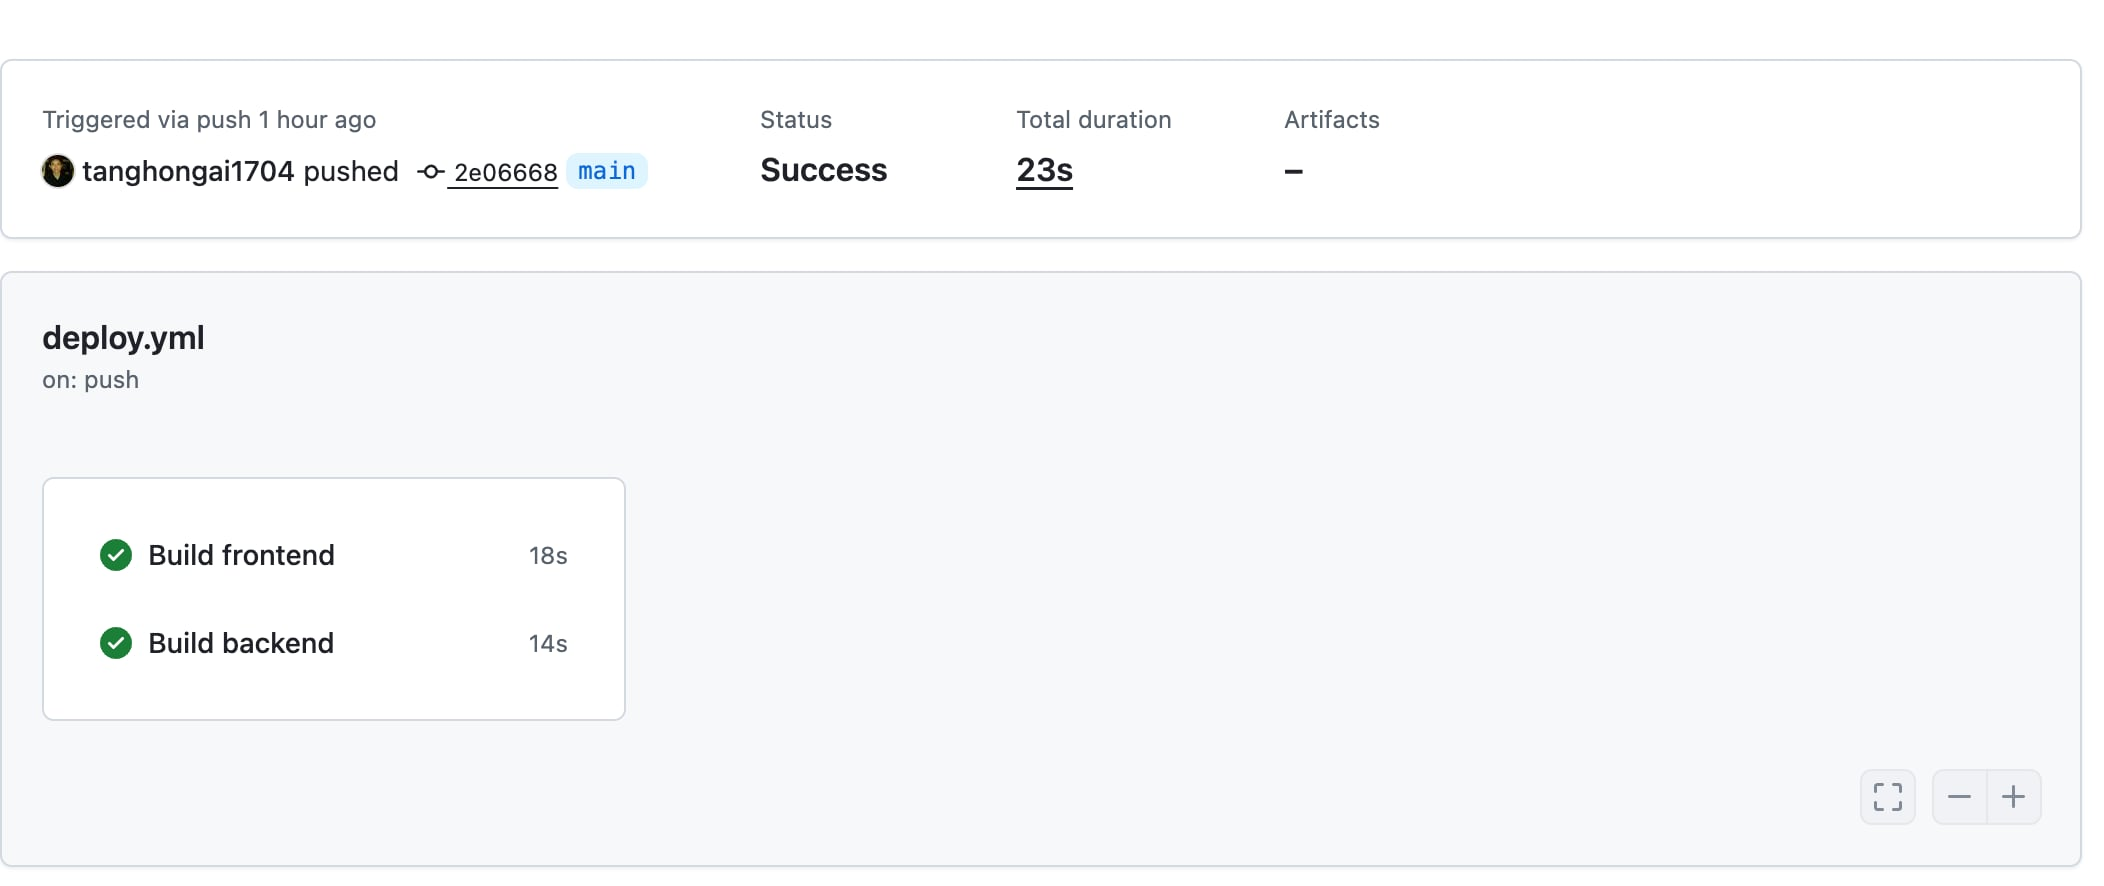
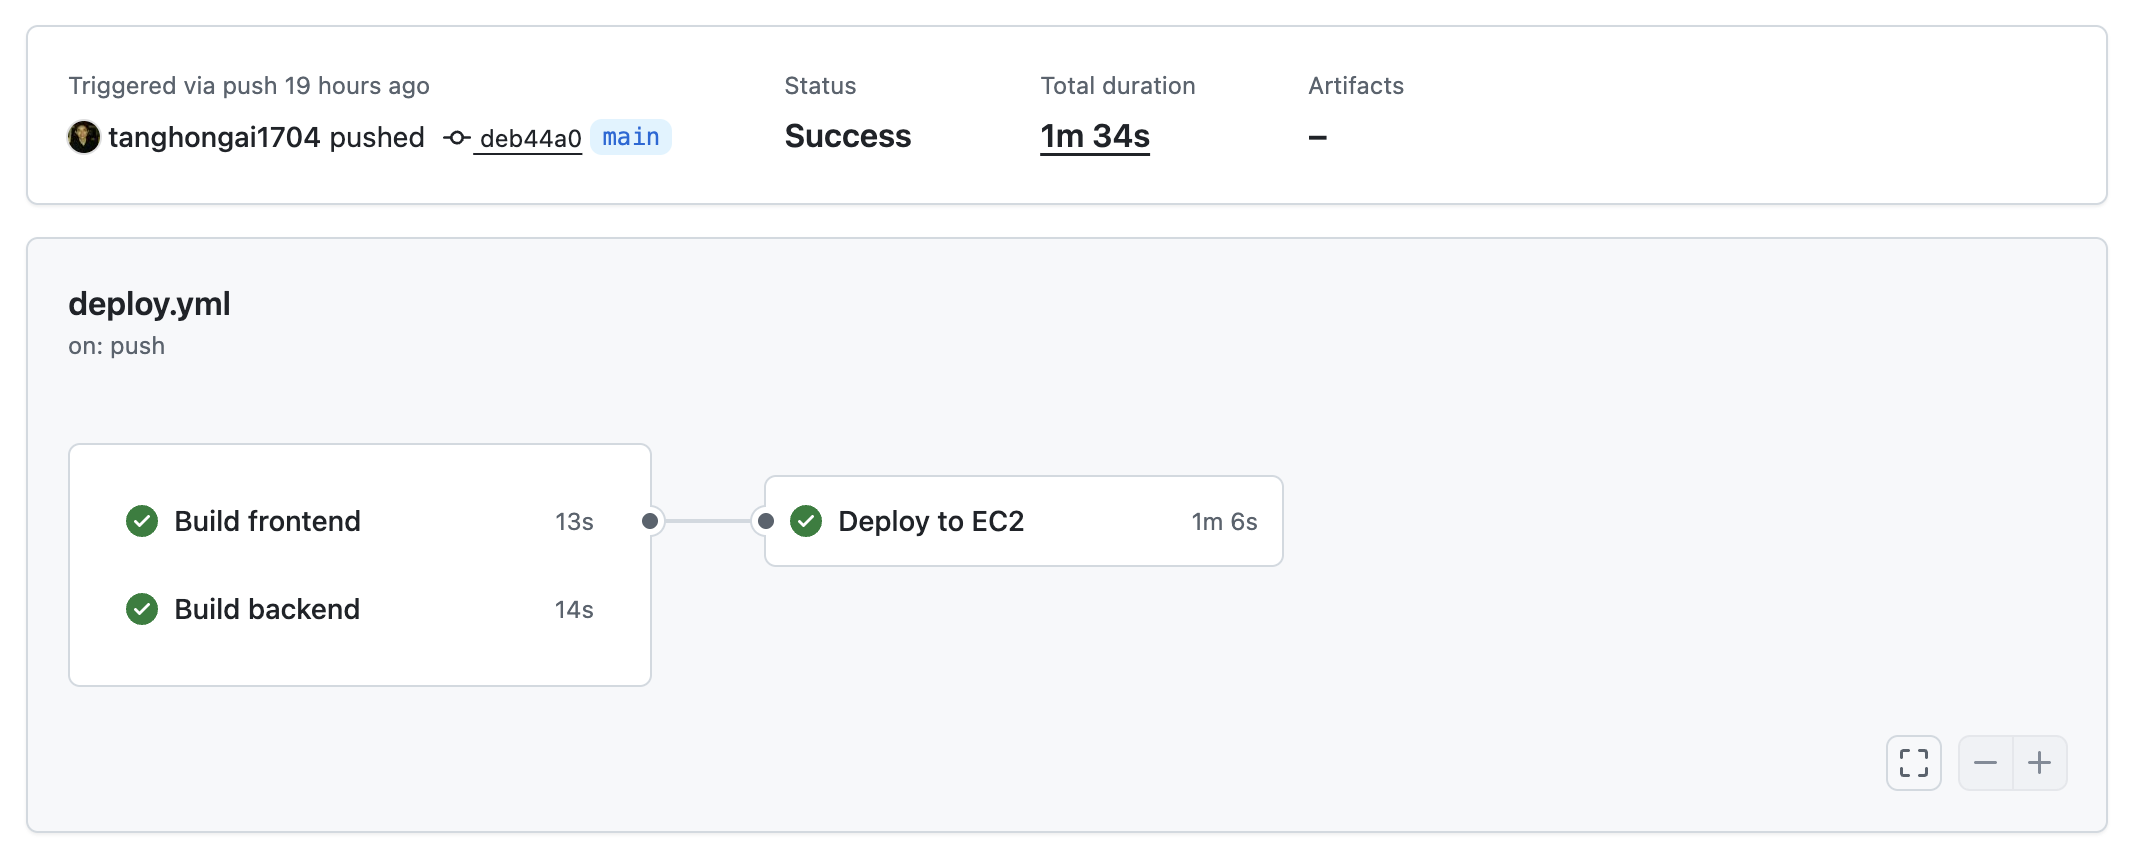
update EC2 integration instructions and replace diagram images

diff --git a/content/5-Workshop/5.4-Recommendation-pipeline/5.4.3-integrate-ec2-application/_index.md b/content/5-Workshop/5.4-Recommendation-pipeline/5.4.3-integrate-ec2-application/_index.md
@@ -71,19 +71,13 @@ On EC2, prefer an instance profile so the AWS SDK obtains credentials through th
 
 When a commit is pushed to the `main` branch, GitHub Actions:
 
-<!-- 1. Builds the frontend.
+1. Builds the frontend.
 2. Installs backend dependencies and runs `compileall`.
 3. Connects to EC2 over SSH.
 4. Changes to `EC2_APP_DIR`.
 5. Pulls source from `main`.
-6. Runs Docker Compose. -->
+6. Runs Docker Compose.
 
-1. Builds the frontend.
-2. Installs backend dependencies and runs `compileall`.
-<!-- 3. Connects to EC2 over SSH.
-4. Changes to `EC2_APP_DIR`. -->
-3. Pulls source from `main`.
-4. Runs Docker Compose.
 
 ![Successful GitHub Actions workflow build](/images/5-Workshop/5.4-Recommendation-pipeline/5.4.3-integrate-ec2-application/github-actions-build-success.png)
 

diff --git a/content/5-Workshop/5.4-Recommendation-pipeline/5.4.3-integrate-ec2-application/_index.vi.md b/content/5-Workshop/5.4-Recommendation-pipeline/5.4.3-integrate-ec2-application/_index.vi.md
@@ -75,10 +75,10 @@ Khi push branch `main`, GitHub Actions:
 
 1. Build frontend.
 2. Cài dependency backend và chạy `compileall`.
-<!-- 3. SSH vào EC2.
-4. Chuyển tới `EC2_APP_DIR`. -->
-3. Pull source từ `main`.
-4. Chạy Docker Compose.
+3. SSH vào EC2.
+4. Chuyển tới `EC2_APP_DIR`.
+5. Pull source từ `main`.
+6. Chạy Docker Compose.
 
 ![GitHub Actions workflow build thành công](/images/5-Workshop/5.4-Recommendation-pipeline/5.4.3-integrate-ec2-application/github-actions-build-success.png)
 
